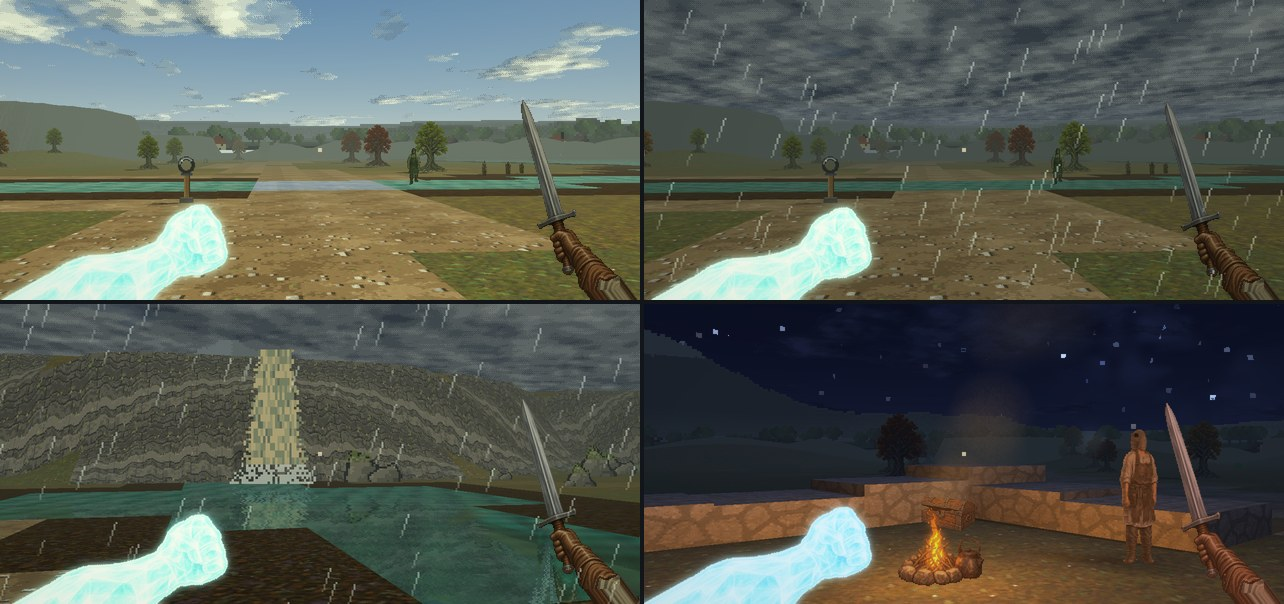
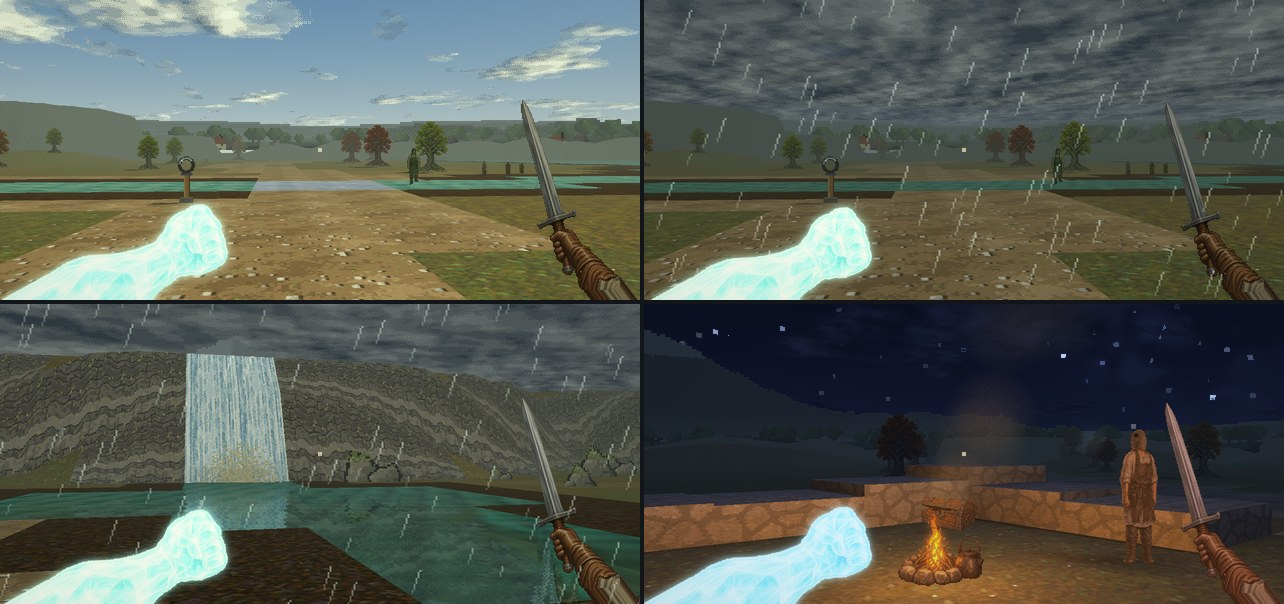
The long road: pictures, plans of all three stretches, roadmap and rules
screenshots/road79: a plan of the whole road in walking order; the Long Common
and Greenroot Wood (the Delph by day and night, the Bell Oak, the Cleave, the
eel-stage); the lych-house, the explorers and Singers' Howe; the Leap as fixed.
ROADMAP: the three-stretch road as built, the owner's rulings, and the three
rules for every road (not straight; room to breathe; a real country and one
fantasy element).

Claude-Session: https://claude.ai/code/session_01UK584MzqpLueuyZPPK175S

diff --git a/ROADMAP.md b/ROADMAP.md
@@ -251,7 +251,8 @@ Gate for each wave: every stop is open ground and reachable; every hour of the d
   - **Canon to build from:** the two days' walk; the iron-bark oaks on either side of the Greenroot road, which ring (in the snow "the oaks did not ring"); the bees kept on the Flume road; the grey Hedge that says a name in a dead voice at night; the Church's column coming up the Greenroot road. Everything else is invented and will be marked [PROPOSED], with French, in a review document.
   - **Engineering rules:** a new road is its own file and its own map; it takes over the two doors it stands between, so nothing else about either town changes; every place must be reachable and escapable (the softlock walk the Watch Downs test already does); nothing visual or wayside may use the game's random numbers; the seeded-replay suites (`far14`, `partner19`) must be green before and after.
   - **The pilot: the Greenroot road (12 Nov; owner: "yes they did walk for days so keep that. We just have to be sure that there is stuff to do on that walk. commit and proceed", then "please be sure to to not make the road between each area be a straight line and add lakes, streams, cliffs and on and on").** `js/road79.js`, `test/road79.test.js` (17 checks). The door marked "The Greenroot road" in the country Outside the Hedge used to open straight onto Greenroot; a map now stands between them (`p79_greenroad`, 168 x 96, the largest in the game), and each gate leads out where the old door did. **221 steps gate to gate: about 85 seconds at a walk, 50 at a run** (the old door was one step). *The land:* the road is 216 paces for 174 as the crow flies, turns through 505 degrees and swings 24 paces to one side of the straight way and 22 to the other. It splashes through a beck, swings north past the toll-house, climbs **Oak Hill**, fords the stream, runs along the shore of a **mere** and climbs through **the Narrows** between two crags, **the Hang** and **the Little Hang**. North of it is **the Shelf**, a scarp the stream falls over in one fall, **the Leap**, with a worn path up to its pool. Off the road: a tarn the beck runs into, an **eyot** in the mere reached by flat stones a hand under the water, a dozen and a half rises, copses, willows by the water, thorns on the tops, scree under the crags, and a wooded rim all round so that the valley has a skyline. 43% of the ground is off the flat; no water lies on a slope; nothing goes up the crags. Painted here, in code: living rock for the cliff faces, the road's own surface, two boulders, a cairn, and the falling water (three frames, and three more for the stream in spate). Far country: the Grey Teeth to the north with snow on them and downs south and west (`LANDMARKS`), and the Reach's own painted skyline with Greenroot's spire on it (`js/sky.js` gives the road Oakhaven's recipe; without these a new map gets one dark band all round). *The three kinds of thing:* **to find**, three milestones (one fallen), the ruin of a toll-house with a strongbox in it, the great oak, the Leap, the cairn at the mouth of the Narrows, and a second strongbox on the eyot; **to meet**, a road-mender at the ford by day, whose small task is to set the half-way stone up again (20 XP, remembered), and a drover at a watch-fire in the ruin by night; **only at night or in bad weather**, the watch-fire, and in rain or a storm the ford floods and cannot be waded (never round somebody standing in it; the plank bridge upstream is always there, so nobody is shut in or out), the Leap comes down brown and twice its width, and the great oak rings. *Found on the way:* the engine's post hooks do not run when the 3D renderer draws, so the hour-and-weather logic now runs from the game's own update (as `js/flora.js` does); the first version would not have lit the fire or flooded the ford under the 3D renderer. *Canon used:* the road and the iron-bark oaks on either side; the two days' walk; the forty grain wagons of spring 413 (the drover: no toll has been taken since); the Grey Teeth. **[PROPOSED], for the owner:** every name on the land (Oak Hill, the Shelf, the Leap, the Hang, the Little Hang, the Narrows, the eyot); the toll-house and its board; the ford-post; the bridge; the cairn's custom; what is cut on the three milestones; the road-mender, the drover and all they say (text and French in `story/Game Layer/Phase 79 - New In-Game Text.md`). **Open points:** (1) the Book Four prologue already in the game walks the last of this road in the snow past milestones numbered II to V, and the stones here carry words, not numbers; (2) how long a road should be is a dial: this one is 85 seconds at a walk, and the same build can make it two or three times that; (3) there is nothing to fight on it yet (danger 0), and no off-road dungeon, mine or lost place yet: those are the next step on this map before the Flume Road.
-  - **Rule added for every road (owner, 12 Nov):** no road runs straight between two places. Each has at least one lake or pond, running water to cross, a cliff or crag, a climb, and a far skyline of its own; the road bends for a reason you can see.
+  - **The road made three stretches long, with people on it, old places off it, and a dungeon (12 Nov, later; owner: "milestones are fine. names are good. make the road 3 times longer and add more to do and explore. add the occasional traveler or band of travelers, explorers. There should be old ruins that hide dangerous and deadly surprises and perhaps a full dungeon that can be explored and looted for special gear").** `js/road79b.js` (`test/road79b.test.js`, 22 checks) and `js/howe79.js` (`test/howe79.test.js`, 9 checks). **Ruled:** the middle stretch's names and its worded milestones stand. *The road:* Outside the Hedge, **the Long Common**, the middle stretch (the pilot above), **Greenroot Wood**, Greenroot: **811 steps from the Hedge to Greenroot (303 + 221 + 287), about five minutes at a walk and three at a run**, where the first build was 221. The two new stretches are 235 x 134 each, a working plan grown 1.4 times (rule 2 below); the middle stretch is the size it was. *The Long Common* (dale and moor country): the Delph, an old stone pit with a pool in the bottom; a clapper bridge over the river; a wayside well with a hush-lamp; Crow Tor; Long Water; a beck to splash through; the Saddleback to climb. Fantasy element: glass has come up through the Delph's rock and gives its own light, brighter after dark; and the Bell Oak, an iron-bark six times the height of a man, with the Ringing Stand round it. *Greenroot Wood* (a limestone gorge, a fen, a barrow under a ruin): the Cleave; a timber bridge; the fen with a board-walk to an eel-stage; the lych-house on its knoll; the mouth of the Howe. Fantasy element: the old reed-row up to the lych-house, and what is under the hill. *Travellers* (people of `js/life60.js`; they keep to the road and cross water by the bridges, never the ford): a packman one day in three, out as far as the toll-house and home again; a band of three who went to Greenroot and turned back, one day in three, walking west along all three stretches through the day; one day in three nobody but the road's own people (the turf-cutter, the road-mender, the drover). The explorers: an antiquary and her digger, at the lych-house by day and at their camp by night. *Danger off the road* (nothing within ten paces of the road itself; noise still brings hounds anywhere, as outside the Hedge it always has): two hounds bedded in the Delph on a second-tier strongbox; at the lych-house a Dirge inside, a swarm, two hounds behind the wall on another strongbox, an alarm wire and a tripwire. *Small tasks:* fill the hush-lamp at the well (the oil-can is in the Delph, with the hounds); set the half-way stone up (as before); write the words over the Howe's inner door in the antiquary's book. *Only at night or in bad weather:* the lamp, once filled, burns from dusk; the Delph's glass lights the pit; in rain or a storm the Ringing Stand tolls and standing in it makes noise; hush-moths come to the diggers' lantern; and the middle stretch's fire, flood and spate. ***Singers' Howe***, the dungeon: seven rooms under the lych-house (the stair foot, the gallery of niches, the choir, the offering room, the drowned vault, and behind the inner door the passage and the singers' chamber). The inner door has no handle: three graves have lost their second stone (the Reach's way: a stone on the tongue, a stone on the stone), and setting a stone on each opens it. Swarms, hush-moths, two Dirges, and behind the door, in the dark, a Quiet; three traps. **Special gear** on the singers' shelf: the **Old Cantor's Staff** (iron and blunt, reach 2.0, noise 0.6, damage 6 to 14: the quietest long weapon in the game, and iron is what bites a Quiet) and the **Bearer's Gloves** (hands, armour 3, noise -0.2); a third-tier strongbox beside them and a second-tier one in the offering room. *The Leap, fixed (owner: "the waterfall needs to be fixed it looks like its just falling from the sky"):* it was a picture standing in front of the cliff; it is now white water down the rock itself from the lip of the Shelf to the pool, with spray at its foot. **[PROPOSED], for the owner:** every new name (the Long Common, the Delph, the Ringing Stand, the Bell Oak, Crow Tor, Long Water, Greenroot Wood, the Cleave, the lych-house, Singers' Howe); the people and all they say; the gear and its numbers; and three pieces of lore in particular: glass coming up in a second place near Oakhaven that the Consortium does not work; Greenroot's Cantors buried apart under the Howe for three hundred years; the words over the inner door (WE SANG THEM DOWN. LET NO ONE SING THEM UP). Text and French for all 117 lines: `story/Game Layer/Phase 79 - New In-Game Text.md`. **Not done:** the middle stretch has not been grown the way the two new ones have (it is the approved one; say if it should be); nothing here has its own music or arrival card; the Howe's Quiet is the ordinary Quiet, not a named boss; mounts and fast travel are not started.
+  - **Rules added for every road (owner, 12 Nov):** (1) no road runs straight between two places: each has at least one lake or pond, running water to cross, a cliff or crag, a climb, and a far skyline of its own, and the road bends for a reason you can see; (2) "Be sure not to put everything to close to each other so its claustrophobic. remember going to be a very large map": a stretch is planned at a working size and then grown, the land with it and built things kept their own size, so there is open country between any two things; (3) "Take inspiration from real world areas and then add a fantasy element for that wow factor. The map must be interesting and fun to look at and explore": each stretch names the real country it is drawn from and carries one thing no real country has, taken from the books where the books offer it.
   - **Before it started: the full run (11 Nov).** All 169 suites on the Whisper-Grove commit: seven failed. Traced: (1) a Phase 76 defect, fixed: paintings were rigged on a wall-clock timer and the old sprite chooser was skipped while a painting moved, so seeded replays and page-to-page frames could drift (`partner19`, `far14`, `air11`, `cinematic24`, `sprites21`; `horizon20` earlier). The old chooser now always runs, and paintings are rigged on arrival in a place or when first drawn. (2) No French for the Options rows of Phases 75 to 78 (`story-i18n`): added. (3) `together19`: the guest's fixed wait for the host's XP was too short on this machine since the pages grew heavier; lengthened in the test (6 s). Its last check ("single player: frames identical in three places") fails here on `main` as well, so it is not from this work; it is left as found. (4) `creatures`: one line now holds the moving paintings out, because an NPC is rigged the moment it is drawn. Owner, 11 Nov, on the two days' walk: "yes they did walk for days so keep that. We just have to be sure that there is stuff to do on that walk."
 - [~] **Phase 78 pilot. Roofs and fronts** (11 Nov, `js/eaves78.js`, `test/eaves78.test.js`; owner, on the sharp tiles: "I cant see much difference or really any at all", then agreed to start with building shapes). In the 3D renderer, Oakhaven's 29 houses get the shape of houses, over their own footprints and without changing the map: a pitched roof on the long axis in the house's own roof tile, overhanging at the eaves and gables, with a dark underside, eave and barge boards and a ridge course; gable ends carried up in the wall's own tile; 146 windows with frames, four panes, a sill and a pair of shutters, most of them lit from inside after dusk; a stone footing along the foot of the walls; a small tiled hood over gable-end doors; the smoking chimneys lifted onto the new roofs. `R3D.extendMesh(fn)` is the new hook other modules can use to add world geometry. Switch: Options, Graphics & access, "Roofs, windows and eaves", on by default. Canon check: the bibles give Oakhaven "timber and plaster under thatch and slate", which this keeps. [PROPOSED] invented details for the owner: green-grey shutters; about seven windows in ten lit after dusk; the stone footings; the door hoods. Not done: the classic renderer (unchanged boxes); every other region; the Chapel and other stone halls; upper storeys, dormers and jetties; rain still falls through the new roofs. Pictures in `screenshots/eaves78/`.
   - **The whole of Oakhaven (11 Nov, later; owner: "this looks great ... fix the rain through the buildings and houses. I like the invented details keep them, yes I want the upper storeys and dormers. I want this entire region fleshed out before we move anywhere").** All 31 buildings are now shaped. Rulings: the four invented details (green-grey shutters, about seven windows in ten lit after dusk, stone footings, door hoods) are **approved**. New: a jettied upper storey with its own windows on the five big houses (the Boar & Dulcimer, the Carders' mill, the dyer's, the tannery, the wool-factor's), a double-pile roof where the house is deep, dormers, an attic window in each gable; roofs in thatch, slate or the old moss tile (the bibles: "timber and plaster under thatch and slate"); sheds, stores, the hay-barn and the washhouse stay plain with boarded hatches; a brick stack under every smoking chimney; the Greenhall gets a hipped slate roof and its dome (Vol VIII: "the Greenhall dome"); the Chapel a gabled slate nave facing its door, lancet windows, and on the tower an open, empty bell-frame (Vol VIII: "its belfry open to the weather", "Nothing hangs in the tower. You can see daylight through the frame"). Skyline rule kept: no ordinary ridge reaches the mooring mast (2.8) or the tower (3.2), so the dome, the mast and the tower still stand over the roofs as the Hedge Knoll line says. **Rain and snow now stop at the roofs** in the 3D renderer (`EAVES78.shelter`, read by `js/light21.js`): nothing falls under eaves, jetties or inside a building. [PROPOSED] new invented details: which houses are thatch, slate or tile; lancet windows on the Chapel lit after dusk; tall windows on the Greenhall; the bell-frame as dark timber posts and a ring beam; the valley lead on double roofs. Not done: the classic renderer; shadows on the ground still follow the old box heights; one prologue companion with wings (Solenne) is left a still painting on purpose.
